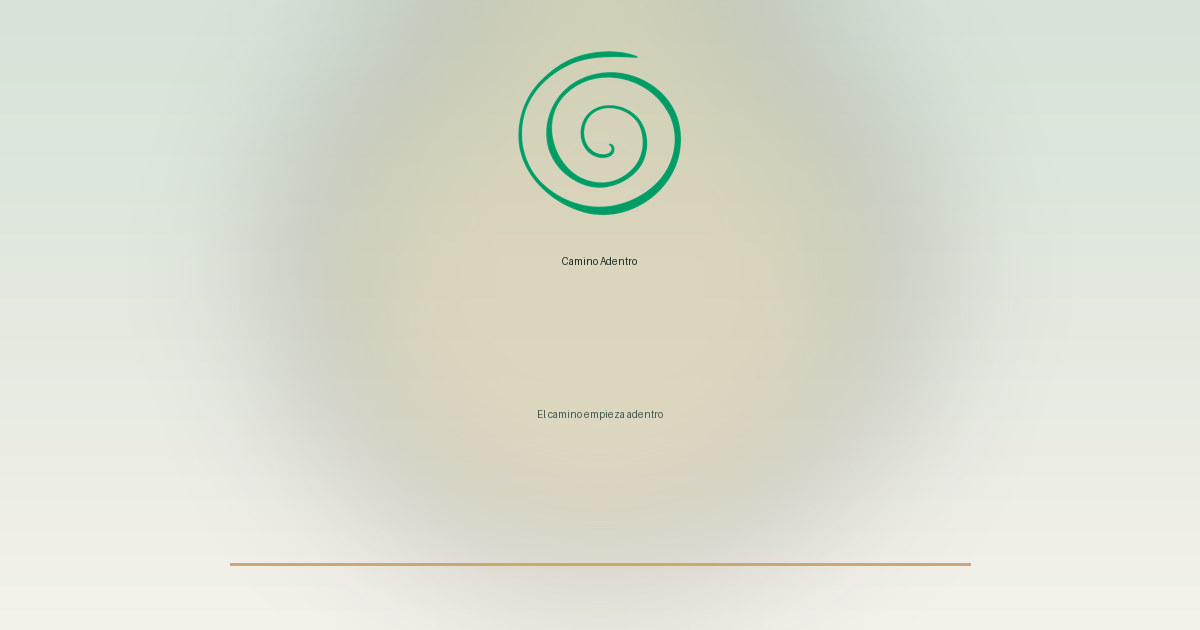
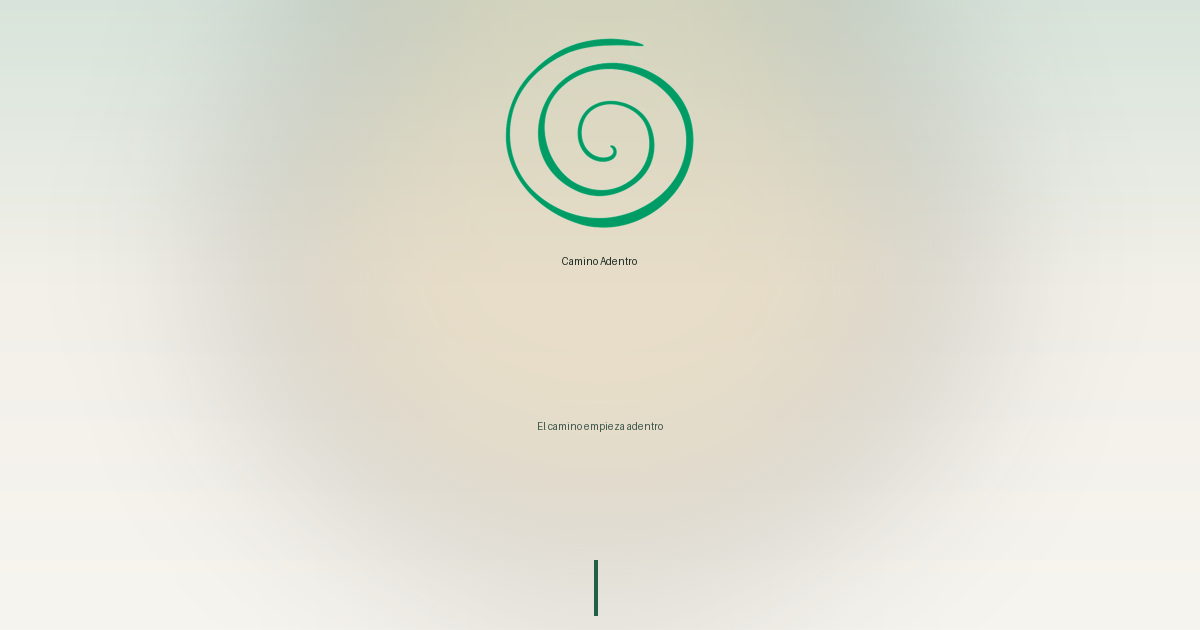
prw4

Changed region(s): [[0.4008, 0.0603, 0.5858, 0.3619], [0.185, 0.8746, 0.8017, 0.9651], [0.4625, 0.6333, 0.555, 0.6937]]

diff --git a/index.html b/index.html
@@ -13,14 +13,14 @@
     <meta property="og:site_name" content="Camino Adentro" />
     <meta property="og:locale" content="es_AR" />
     <meta property="og:url" content="https://www.caminoadentro.com/" />
-    <meta property="og:image" content="https://www.caminoadentro.com/og-whatsapp.png" />
+    <meta property="og:image" content="https://www.caminoadentro.com/og-whatsapp.png?v=2" />
     <meta property="og:image:width" content="1200" />
     <meta property="og:image:height" content="630" />
     <meta property="og:image:alt" content="Camino Adentro - El camino empieza adentro" />
     <meta name="twitter:card" content="summary_large_image" />
     <meta name="twitter:title" content="Camino Adentro — Terapias Holísticas" />
     <meta name="twitter:description" content="Acompañamiento terapéutico integral en Córdoba, Argentina." />
-    <meta name="twitter:image" content="https://www.caminoadentro.com/og-whatsapp.png" />
+    <meta name="twitter:image" content="https://www.caminoadentro.com/og-whatsapp.png?v=2" />
   </head>
 
   <body>